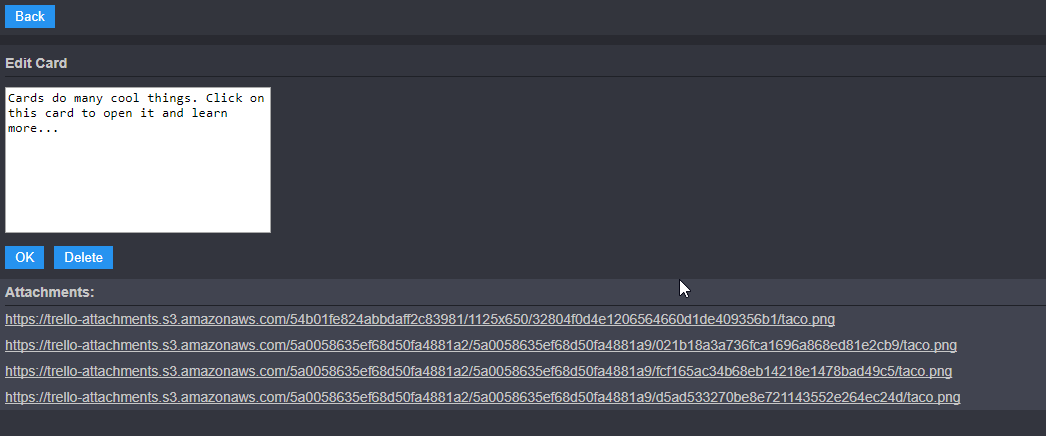
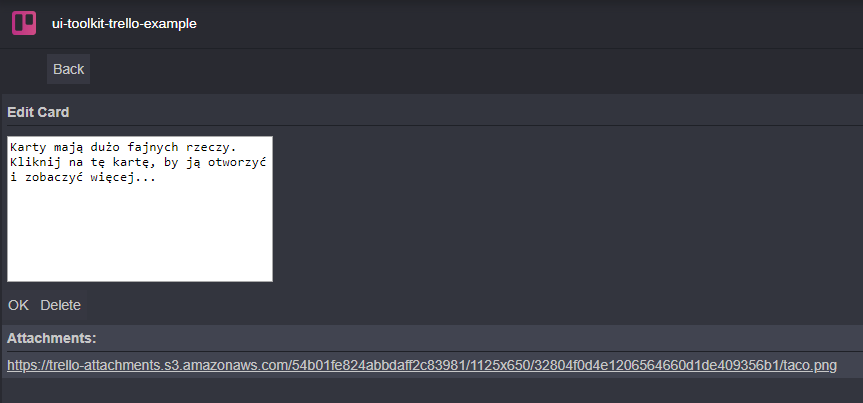
UI Common working

Changed region(s): [[0.0, 0.1191, 0.9942, 0.9529], [0.0, 0.0, 0.241, 0.0893], [0.6327, 0.6551, 0.6628, 0.6849]]

diff --git a/src/app/components/CardView/Card.js b/src/app/components/CardView/Card.js
@@ -44,10 +44,10 @@ const Card = createReactClass({
                     <textarea className={styles['trello-plugin-textarea']} value={this.state.cardName} onChange={this.handleChange} />
                 </div>
                 <div className={styles['trello-plugin-card-open-actions']}>
-                    <button className={commonStyles['trello-plugin-button']} onClick={this.handleEditClick} >
+                    <button className="cux-btn" onClick={this.handleEditClick} >
                         OK
                     </button>
-                    <button className={commonStyles['trello-plugin-button']} onClick={this.handleDeleteClick} >
+                    <button className="cux-btn" onClick={this.handleDeleteClick} >
                         Delete
                     </button>
                 </div>
@@ -61,7 +61,7 @@ const Card = createReactClass({
 
         return (
             <ViewContainer page={page}>
-                <button className={commonStyles['trello-plugin-button']} onClick={TrelloActions.showCurrentBoard}>Back</button>
+                <button className="cux-btn" onClick={TrelloActions.showCurrentBoard}>Back</button>
             </ViewContainer>
         );
     },

diff --git a/src/app/components/ListView/Board.js b/src/app/components/ListView/Board.js
@@ -40,8 +40,8 @@ const Board = createReactClass({
 
         return (
             <ViewContainer page={page}>
-                <button className={commonStyles['trello-plugin-button']} onClick={TrelloActions.showBoardsList}>Boards</button>
-                <button className={commonStyles['trello-plugin-button']} onClick={TrelloActions.showCurrentBoard}>Refresh</button>
+                <button className="cux-btn" onClick={TrelloActions.showBoardsList}>Boards</button>
+                <button className="cux-btn" onClick={TrelloActions.showCurrentBoard}>Refresh</button>
             </ViewContainer>
         );
     },

diff --git a/src/app/containers/ViewContainer.js b/src/app/containers/ViewContainer.js
@@ -11,7 +11,7 @@ class ViewContainer extends React.Component {
     render() {
         return (
             <div className={styles['trello-plugin-container']}>
-                <div className={styles['trello-plugin-toolbar']}>
+                <div className="cux-toolbar">
                     {this.props.children}
                 </div>
                 <div className={this.props.signIn ? styles['trello-signin-page'] : styles['trello-plugin-page']}>

diff --git a/src/app/components/SIgnInView/SignIn.js b/src/app/components/SIgnInView/SignIn.js
@@ -18,7 +18,7 @@ const SignIn = createReactClass({
 
         return (
             <ViewContainer signIn={true} page={page}>
-                <button className={commonStyles['trello-plugin-button']} onClick={TrelloActions.signIn}>Sign In</button>
+                <button className="cux-btn" onClick={TrelloActions.signIn}>Sign In</button>
             </ViewContainer>
         );
     },

diff --git a/src/app/components/BoardView/BoardList.js b/src/app/components/BoardView/BoardList.js
@@ -39,7 +39,7 @@ const BoardList = createReactClass({
 
         return (
             <ViewContainer page={page}>
-                <button className={commonStyles['trello-plugin-button']} onClick={TrelloActions.signOut}>Sign Out</button>
+                <button className="cux-btn" onClick={TrelloActions.signOut}>Sign Out</button>
             </ViewContainer>
         );
     },

diff --git a/src/app/index.jsx b/src/app/index.jsx
@@ -12,6 +12,7 @@ import {composeWithDevTools} from 'redux-devtools-extension';
 import rootReducer from './redux/reducers/index';
 import rootSaga from './redux/saga/index';
 import PaneContainer from './containers/MainPaneContainer';
+import 'cloudux-bootstrap/dist/css/cloudux.min.css';
 
 // export const API_URL='http://localhost:8000/api/';
 

diff --git a/src/app/containers/ViewContainer.scss b/src/app/containers/ViewContainer.scss
@@ -10,13 +10,6 @@
   overflow-y: auto;
 }
 
-.trello-plugin-toolbar {
-  flex: initial;
-  padding-bottom: 2px;
-  background: #33353d;
-  margin: 0 0 10px 0;
-}
-
 .trello-plugin-page {
   display: flex;
   flex: 1 1 auto;

diff --git a/src/app/components/common.scss b/src/app/components/common.scss
@@ -1,12 +1,3 @@
-.trello-plugin-button {
-  margin: 5px;
-  background-color: #2693f0;
-  color: #ffffff;
-  cursor: pointer;
-  padding: 4px 10px;
-  border: none;
-}
-
 .trello-plugin-hidden {
   display: none;
 }
